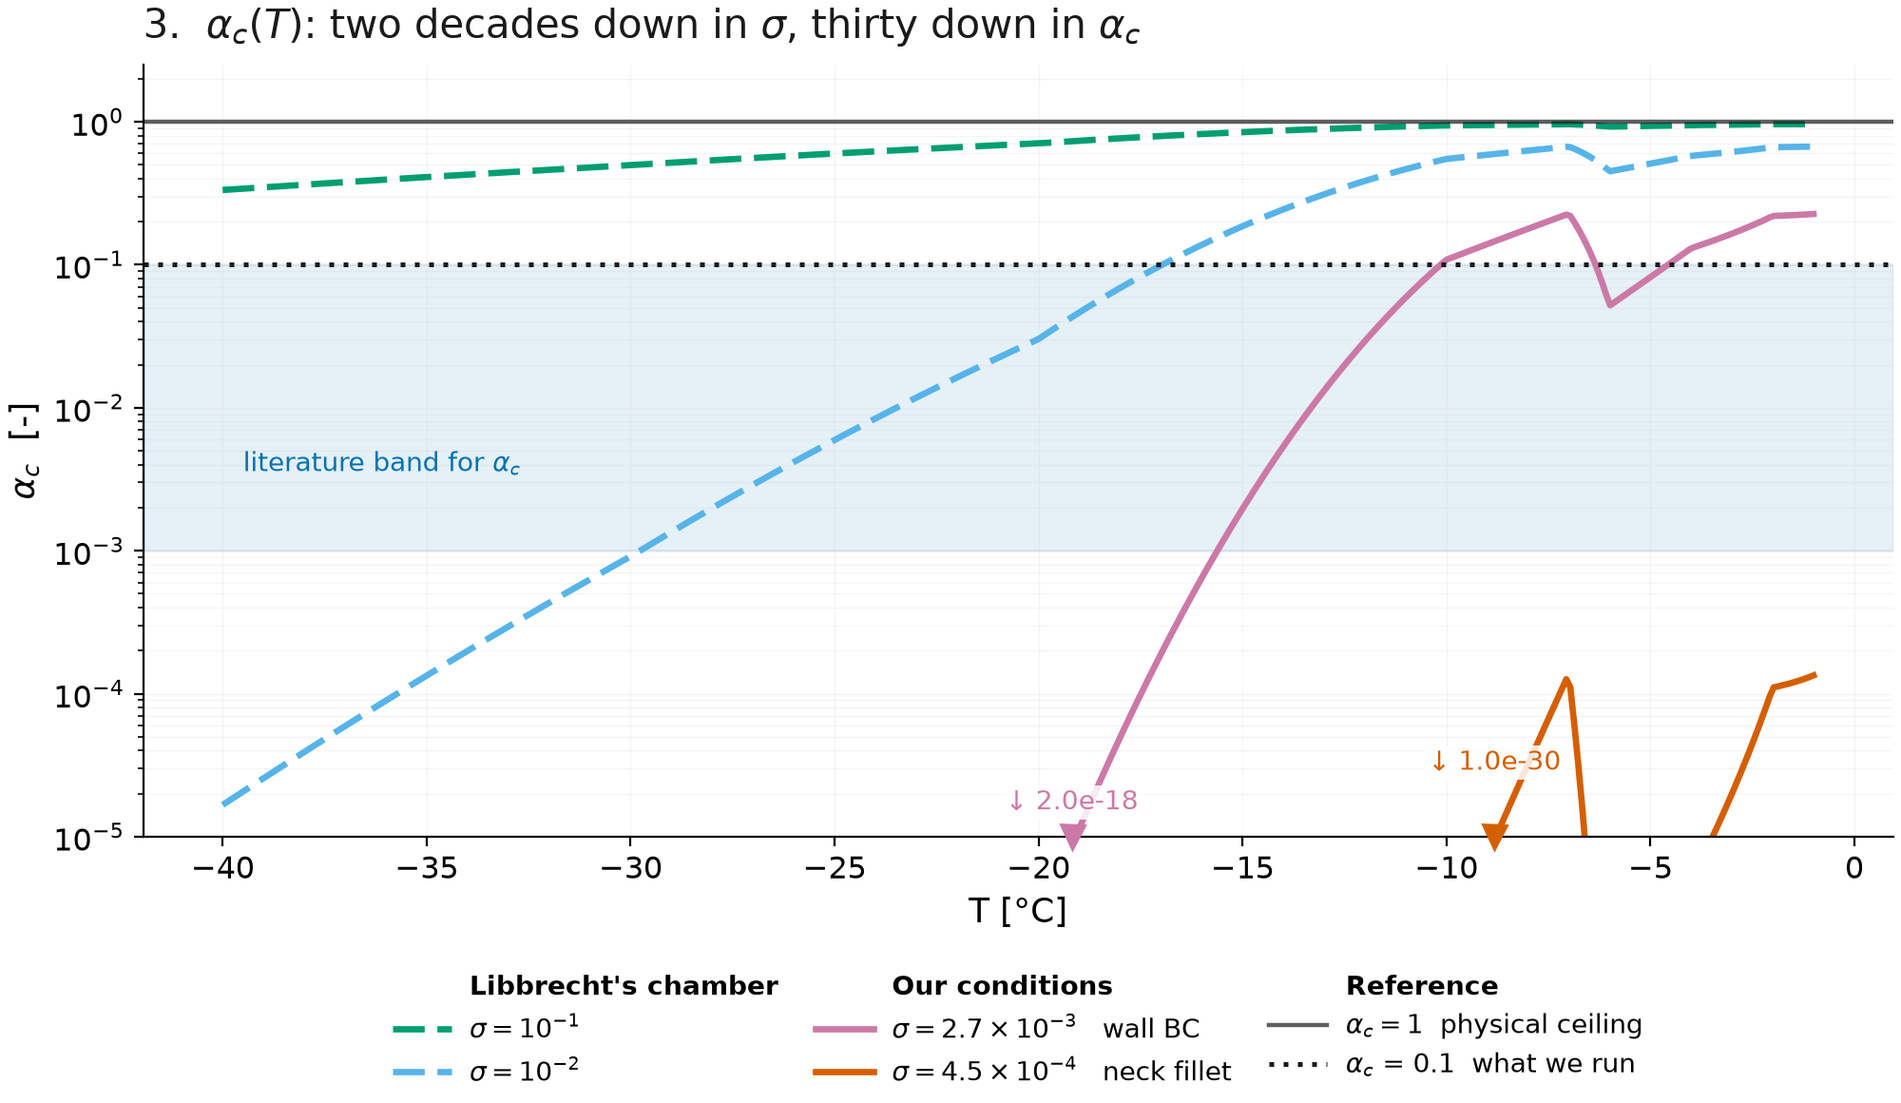
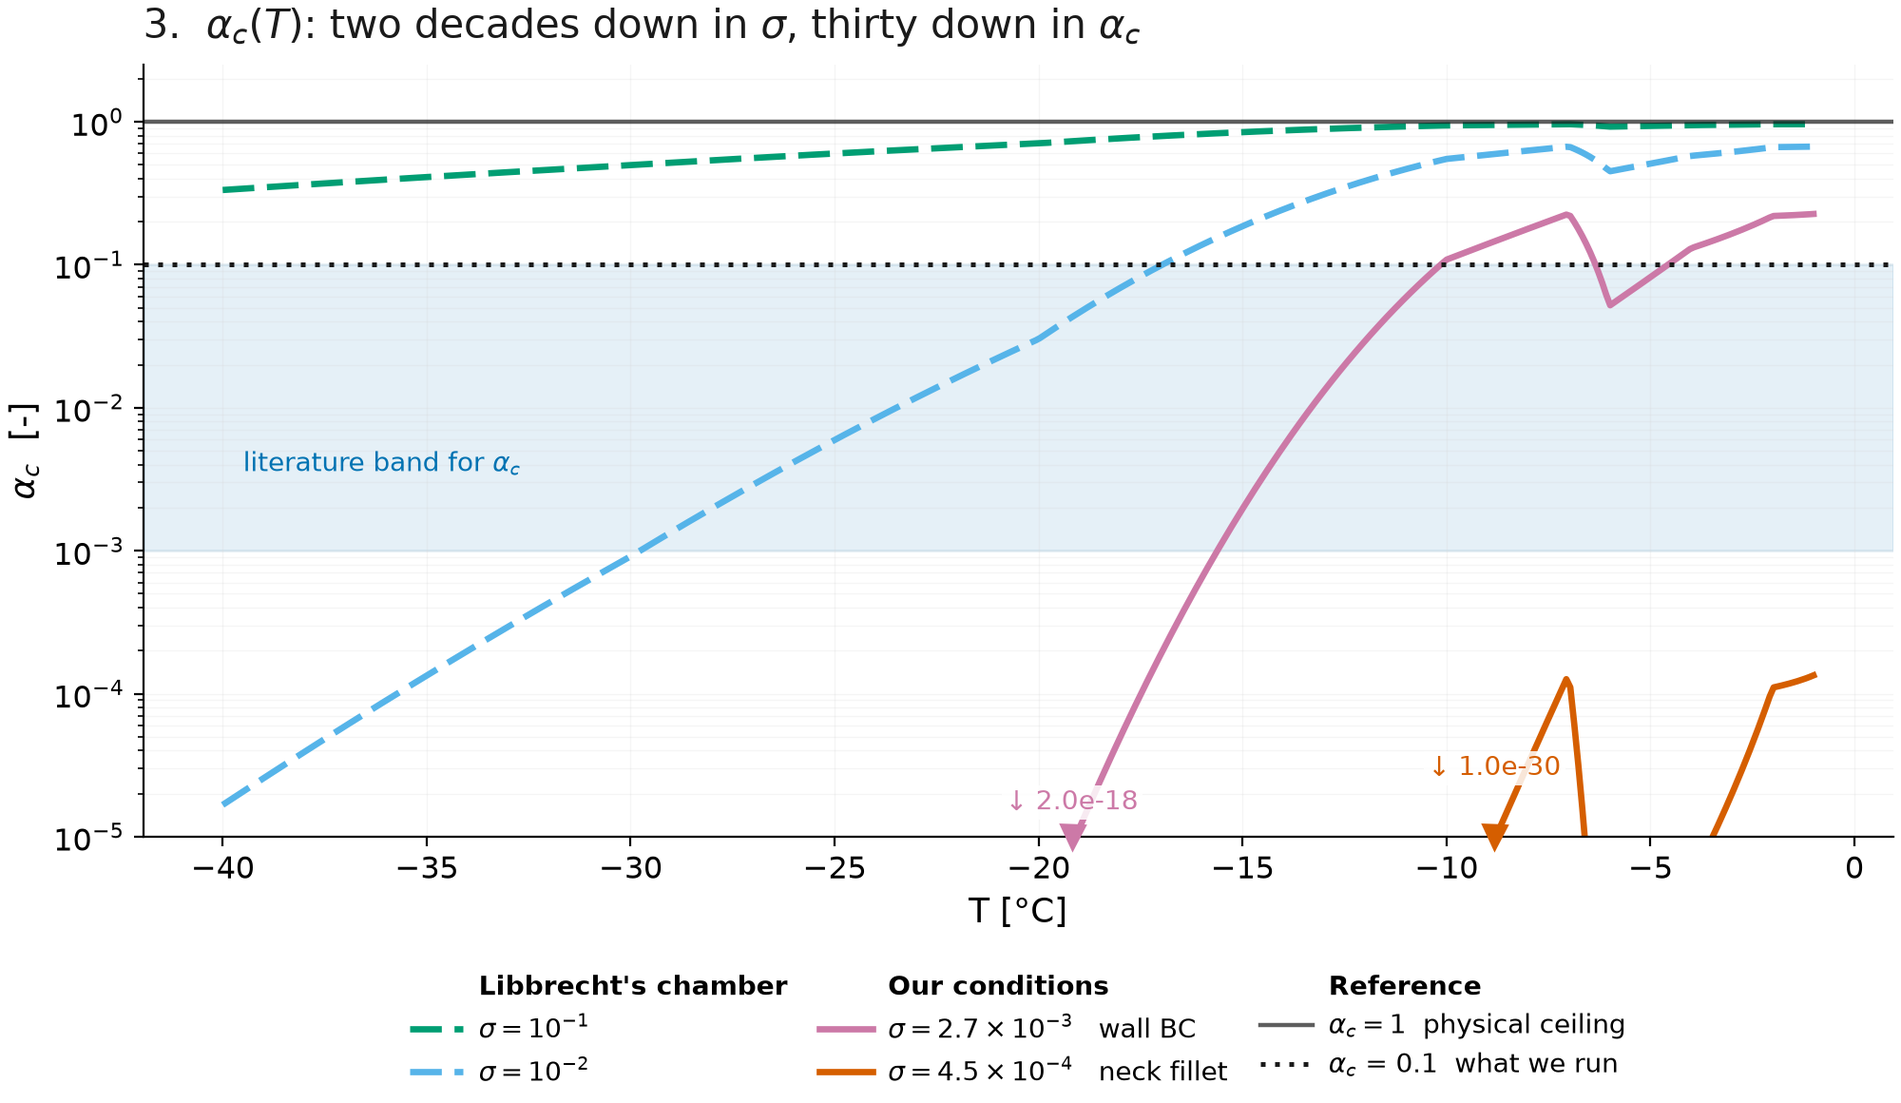
Add the master figure: all six panels in 10 x 6.6 in
Six panels inside 10 in gives each a third of the width, which the
full-size panels do not survive -- not because the type must shrink (it
does not; the floor is still 10 pt) but because the titles, the prose
annotations and six copies of the same legend do not fit.

So the panels gained a compact mode: a flag the same panel functions
consult, rather than a second set of drawing code that could drift from
the standalone figures. It shortens the titles, shortens the y-labels on
panels 1 and 6, drops the annotations that only earn their place at full
size, and suppresses the per-panel legend.

The figure carries one legend instead. Panels 3-6 each draw a dotted
black "what we run" line under a different label; giving them one label
in compact mode collapses four entries into one, which is what makes a
single shared legend possible. _legend split into _entries and _grouped
so the figure-level legend reuses the per-panel layout code.

Claude-Session: https://claude.ai/code/session_01BVdmhQKeceS9YYRoWfp7Wf

diff --git a/projects/enceladus_DSM/preprocess/plot_libbrecht_constraints.py b/projects/enceladus_DSM/preprocess/plot_libbrecht_constraints.py
@@ -57,10 +57,12 @@ WHAT THE PLOTS ARE
   fig4_beta_sub_vs_T.png     beta_sub(T), with its defining equation
   fig5_eps_vs_T.png          eps(T) from comp_eps, shaded by binding bound
   fig6_Nx_vs_T.png           Nx(T), against what a machine can actually hold
+  fig0_master.png            all six, 3 x 2, one shared legend
 
-Every one is 10.00 x 5.80 in -- 10 wide is a hard ceiling, because these go
-on PowerPoint slides. There is deliberately no combined contact sheet: six
-of these panels cannot be laid out inside 10 in and stay legible.
+Every figure is 10 in wide -- a hard ceiling, because these go on PowerPoint
+slides -- and no type is below 10 pt. The master gets there by dropping each
+panel's prose annotations, shortening its title, and replacing six near
+identical legends with one at the foot of the figure.
   libbrecht_constraints.csv  the numbers behind them
 
 Usage:
@@ -137,6 +139,25 @@ FS_TITLE, FS_LABEL, FS_TICK, FS_LEG, FS_NOTE = 15, 13, 11.5, 10, 10
 SLIDE_W_IN = 10.0
 ASPECT = 0.58              # 10 x 5 of plot, plus the legend strip underneath
 
+# COMPACT MODE. The master grid puts six panels inside the same 10 in, so each
+# one gets a third of the width. Everything that only earns its place at full
+# size -- the long titles, the prose annotations, the per-panel legend -- is
+# dropped there, and the panels share one legend at the foot of the figure.
+# Type still never goes below 10 pt; that is the constraint, not the width.
+FS_C_TITLE, FS_C_LABEL, FS_C_TICK = 12, 10.5, 10
+_COMPACT = [False]
+
+
+def _compact():
+    return _COMPACT[0]
+
+
+def _lbl(full, short):
+    """Legend label: the panel's own wording, or the wording the shared legend
+    uses. Panels 3-6 all draw a dotted black 'what we run' line; giving them
+    one label in compact mode collapses four entries into one."""
+    return short if _compact() else full
+
 # -------------------------------------------------------------------------
 # The display window.
 #
@@ -182,26 +203,33 @@ def _mark_offscale(a, x, y, color, fmt="{:.1e}", row=0):
         while hi_i < len(out) - 1 and out[hi_i + 1]:
             hi_i += 1
         j = hi_i if hi_i < len(out) - 1 else (lo_i if lo_i > 0 else k)
-        pad = 8.0 + 15.0 * row
+        # One row lower in the master: the region names sit on the same edge
+        # and there is a third of the width to keep them apart in.
+        pad = 8.0 + 13.0 * (row + (1 if _compact() else 0))
         a.plot([x[j]], [edge], mk, ms=9, color=color, clip_on=False, zorder=7)
         a.annotate(f"{arrow} {fmt.format(extreme(y))}", (x[j], edge),
                    xytext=(0, -pad if va == "top" else pad),
-                   textcoords="offset points", fontsize=FS_NOTE, color=color,
+                   textcoords="offset points",
+                   fontsize=FS_C_TICK if _compact() else FS_NOTE, color=color,
                    ha="center", va=va, zorder=7,
                    bbox=dict(boxstyle="square,pad=0.15", fc="white", ec="none",
                              alpha=0.85))
 
 
-def _style(a, xlabel, ylabel, title, logy=True, title_size=FS_TITLE, pad=10):
-    a.set_xlabel(xlabel, fontsize=FS_LABEL)
-    a.set_ylabel(ylabel, fontsize=FS_LABEL)
+def _style(a, xlabel, ylabel, title, logy=True, title_size=FS_TITLE, pad=10,
+           short=None, short_y=None):
+    lab = FS_C_LABEL if _compact() else FS_LABEL
+    a.set_xlabel(xlabel, fontsize=lab)
+    a.set_ylabel(short_y if (_compact() and short_y) else ylabel, fontsize=lab)
+    if _compact():
+        title, title_size, pad = (short or title), FS_C_TITLE, 6
     if title:
         a.set_title(title, fontsize=title_size, color=INK, loc="left", pad=pad)
     if logy:
         a.set_yscale("log")
     a.grid(alpha=0.25, lw=0.5, color=GRID, which="both")
     a.spines[["top", "right"]].set_visible(False)
-    a.tick_params(labelsize=FS_TICK)
+    a.tick_params(labelsize=FS_C_TICK if _compact() else FS_TICK)
 
 
 def _blank():
@@ -209,19 +237,29 @@ def _blank():
     return Line2D([], [], linestyle="none", marker="none")
 
 
-def _legend(a, groups, y=-0.165):
-    """One legend under the axes, laid out as titled columns.
+def _entries(*axes):
+    """label -> handle, unioned across axes. Panels that draw the same line
+    with the same label collapse to one entry, which is what lets the master
+    grid carry a single legend for all six."""
+    have = {}
+    for a in axes:
+        for h, lbl in zip(*a.get_legend_handles_labels()):
+            have.setdefault(lbl, h)
+    return have
 
-    Eight entries in a flat strip is a lookup problem: the reader has to scan
-    the whole row to find the curve they want. matplotlib fills a multi-column
-    legend column-major, so padding every group to the same length puts each
-    group in its own column under its own bold heading -- and the headings are
-    what carry the provenance the short entry labels leave out.
 
-    `groups` is [(heading, [label, ...]), ...]; labels not actually plotted in
-    this panel are skipped, so one group list can serve several panels.
+def _grouped(target, have, groups, size, **kw):
+    """A legend laid out as titled columns.
+
+    A flat strip of entries is a lookup problem: the reader scans the whole row
+    to find one curve. matplotlib fills a multi-column legend column-major, so
+    padding every group to the same length puts each group in its own column
+    under its own bold heading -- and the headings carry the provenance the
+    short entry labels leave out.
+
+    `groups` is [(heading, [label, ...]), ...]; labels that were never plotted
+    are skipped, so one group list can serve several panels.
     """
-    have = {lbl: h for h, lbl in zip(*a.get_legend_handles_labels())}
     cols = [(t, [k for k in keys if k in have]) for t, keys in groups]
     cols = [c for c in cols if c[1]]
     rows = max(len(keys) for _t, keys in cols)
@@ -232,14 +270,23 @@ def _legend(a, groups, y=-0.165):
             handles.append(have[k]); labels.append(k)
         handles += [_blank()] * (rows - len(keys))
         labels += [""] * (rows - len(keys))
-    leg = a.legend(handles, labels, ncol=len(cols), loc="upper center",
-                   bbox_to_anchor=(0.5, y), fontsize=FS_LEG, frameon=False,
-                   handlelength=2.2, handletextpad=0.7, columnspacing=1.4,
-                   labelspacing=0.45, borderaxespad=0.0, alignment="left")
+    leg = target.legend(handles, labels, ncol=len(cols), fontsize=size,
+                        frameon=False, handlelength=2.0, handletextpad=0.6,
+                        columnspacing=1.2, labelspacing=0.45,
+                        borderaxespad=0.0, alignment="left", **kw)
     for t in leg.get_texts():
         if t.get_text() in headings:
             t.set_fontweight("bold")
     return leg
+
+
+def _legend(a, groups, y=-0.165):
+    """Per-panel legend under the axes. Suppressed in the master grid, which
+    carries one shared legend instead of six near-identical ones."""
+    if _compact():
+        return None
+    return _grouped(a, _entries(a), groups, FS_LEG, loc="upper center",
+                    bbox_to_anchor=(0.5, y))
 
 
 def _ls(kind):
@@ -262,6 +309,18 @@ def panel_sigma0(a, T, ctx):
     a.plot(ce._SIG0_T[:9], ce._SIG0_S[:9], "o", ms=7, color=C[0],
            markerfacecolor="white", markeredgewidth=1.8, zorder=5,
            label="table, 9 points in range")
+    if not _compact():
+        _panel1_notes(a)
+    a.set_xlim(-41, 0.5)
+    a.set_ylim(2.0e-3, 6.0e-1)
+    _style(a, "T [°C]", "$\\sigma_0$  (critical supersaturation) [-]",
+           "1.  Libbrecht's data: $\\sigma_0(T)$",
+           short="1.  Libbrecht's $\\sigma_0(T)$", short_y="$\\sigma_0$  [-]")
+    _legend(a, [("Libbrecht (2017)", ["$\\sigma_0(T)$ as coded",
+                                      "table, 9 points in range"])])
+
+
+def _panel1_notes(a):
     a.annotate("non-monotonic kink at $-6/-7$ °C\n(a digitisation artifact,\n"
                "not physics)", (-6.6, 6.6e-3), xytext=(-14.5, 3.0e-3),
                fontsize=FS_NOTE, color=C[1], ha="center", va="center",
@@ -272,12 +331,6 @@ def panel_sigma0(a, T, ctx):
            "$\\alpha_c = \\exp(-\\sigma_0/\\sigma)$, so that factor\n"
            "lands in the EXPONENT.",
            fontsize=FS_NOTE, color=INK, ha="left", va="top")
-    a.set_xlim(-41, 0.5)
-    a.set_ylim(2.0e-3, 6.0e-1)
-    _style(a, "T [°C]", "$\\sigma_0$  (critical supersaturation) [-]",
-           "1.  Libbrecht's data: $\\sigma_0(T)$")
-    _legend(a, [("Libbrecht (2017)", ["$\\sigma_0(T)$ as coded",
-                                      "table, 9 points in range"])])
 
 
 def panel_alpha_vs_sigma0(a, T, ctx):
@@ -294,17 +347,19 @@ def panel_alpha_vs_sigma0(a, T, ctx):
     a.axhline(ALPHA_CEIL, lw=1.6, color=INK, alpha=0.7,
               label="$\\alpha_c = 1$  physical ceiling")
     # Where the table's own sigma0 values sit, so x carries physical marks.
-    for Tm in (-2.0, -20.0, -40.0):
+    for Tm in ([] if _compact() else (-2.0, -20.0, -40.0)):
         s0m = ce.sigma0(Tm)
         a.axvline(s0m, lw=1.0, ls=(0, (1, 3)), color=MUTED, zorder=0)
         a.annotate(f"$T$ = {Tm:.0f} °C", (s0m, ALPHA_CEIL * 0.55), rotation=90,
                    fontsize=FS_NOTE, color=MUTED, ha="right", va="top", zorder=6,
                    bbox=dict(boxstyle="square,pad=0.15", fc="white", ec="none",
                              alpha=0.85))
-    a.annotate("literature band for $\\alpha_c$", (2.9e-4, 3.0e-2),
-               fontsize=FS_NOTE, color=C[0], va="center")
+    if not _compact():
+        a.annotate("literature band for $\\alpha_c$", (2.9e-4, 3.0e-2),
+                   fontsize=FS_NOTE, color=C[0], va="center")
     _style(a, "$\\sigma_0(T)$  [-]", "$\\alpha_c$  [-]",
-           "2.  $\\alpha_c = \\exp(-\\sigma_0/\\sigma)$ against $\\sigma_0$")
+           "2.  $\\alpha_c = \\exp(-\\sigma_0/\\sigma)$ against $\\sigma_0$",
+           short="2.  $\\alpha_c$ against $\\sigma_0$")
     _legend(a, [(GRP_LAB, SIG_LAB), (GRP_OURS, SIG_OURS),
                 (GRP_REF, ["$\\alpha_c = 1$  physical ceiling"])])
 
@@ -313,8 +368,9 @@ def panel_alpha_vs_T(a, T, ctx):
     """3. alpha_c(T) at each sigma -- the supersaturation gap, in T."""
     a.axhspan(ce.ALPHA_LIT_LO, ce.ALPHA_LIT_HI, color=C[0], alpha=0.10, zorder=0)
     a.set_ylim(*VIEW_ALPHA)
-    a.annotate("literature band for $\\alpha_c$", (-39.5, 4.0e-3),
-               fontsize=FS_NOTE, color=C[0], va="center")
+    if not _compact():
+        a.annotate("literature band for $\\alpha_c$", (-39.5, 4.0e-3),
+                   fontsize=FS_NOTE, color=C[0], va="center")
     for i, (sig, col, lbl, kind) in enumerate(SIGMA_CASES):
         y = np.maximum(ctx["alpha"][sig], ALPHA_FLOOR)
         a.plot(T, y, lw=2.4, color=col, ls=_ls(kind), label=lbl)
@@ -322,10 +378,11 @@ def panel_alpha_vs_T(a, T, ctx):
     a.axhline(ALPHA_CEIL, lw=1.6, color=INK, alpha=0.7,
               label="$\\alpha_c = 1$  physical ceiling")
     a.axhline(ctx["alpha_run"], lw=1.8, ls=(0, (1, 2)), color=INK,
-              label=f"$\\alpha_c$ = {ctx['alpha_run']:g}  what we run")
+              label=_lbl(f"$\\alpha_c$ = {ctx['alpha_run']:g}  what we run",
+                         "what we run"))
     _style(a, "T [°C]", "$\\alpha_c$  [-]",
            "3.  $\\alpha_c(T)$: two decades down in $\\sigma$, "
-           "thirty down in $\\alpha_c$")
+           "thirty down in $\\alpha_c$", short="3.  $\\alpha_c(T)$")
     _legend(a, [(GRP_LAB, SIG_LAB), (GRP_OURS, SIG_OURS),
                 (GRP_REF, ["$\\alpha_c = 1$  physical ceiling",
                            f"$\\alpha_c$ = {ctx['alpha_run']:g}  what we run"])])
@@ -341,14 +398,16 @@ def panel_beta_vs_T(a, T, ctx):
         a.plot(T, ctx["beta"][sig], lw=2.4, color=col, ls=_ls(kind), label=lbl)
         _mark_offscale(a, T, ctx["beta"][sig], col, row=i % 2)
     a.axhline(ctx["beta_run"], lw=1.8, ls=(0, (1, 2)), color=INK,
-              label=f"$\\beta_{{sub}}$ = {ctx['beta_run']:.1e} s/m  what we run")
+              label=_lbl(f"$\\beta_{{sub}}$ = {ctx['beta_run']:.1e} s/m  "
+                         f"what we run", "what we run"))
     _style(a, "T [°C]", "$\\beta_{sub}$  [s/m]",
            "4.  Attachment resistance $\\beta_{sub} \\propto 1/\\alpha_c$\n\n"
            r"$\beta_{sub}(T)=\dfrac{\beta_{HK}}{\rho_{vs}(T)/\rho_i}"
            r"=\dfrac{\rho_i}{\rho_{vs}(T)}\;\dfrac{1}{\alpha_c}\;"
            r"\sqrt{\dfrac{2\pi m}{k_B T}}\,,\qquad"
            r"\alpha_c=\exp\left[-\sigma_0(T)/\sigma\right]$",
-           title_size=13, pad=14)
+           title_size=13, pad=14,
+           short="4.  $\\beta_{sub}(T) \\propto 1/\\alpha_c$")
     _legend(a, [(GRP_LAB, SIG_LAB), (GRP_OURS, SIG_OURS),
                 (GRP_REF, ["M&F (2024) Table S1",
                            f"$\\beta_{{sub}}$ = {ctx['beta_run']:.1e} s/m  "
@@ -366,13 +425,16 @@ def panel_eps_vs_T(a, T, ctx):
                label=lbl)
         _mark_offscale(a, T, ctx["eps"][sig], col, row=i % 2)
     a.axhline(ctx["eps_usable"], lw=1.6, color=MUTED,
-              label=f"$N_x = 10^4$ ceiling, $\\epsilon$ = "
-                    f"{ctx['eps_usable']*1e9:.0f} nm")
+              label=_lbl(f"$N_x = 10^4$ ceiling, $\\epsilon$ = "
+                         f"{ctx['eps_usable']*1e9:.0f} nm",
+                         "$N_x = 10^4$  practical ceiling"))
     a.axhline(ctx["eps_run"], lw=1.8, ls=(0, (1, 2)), color=INK,
-              label=f"production run, $\\epsilon$ = {ctx['eps_run']*1e6:.3g} µm")
+              label=_lbl(f"production run, $\\epsilon$ = "
+                         f"{ctx['eps_run']*1e6:.3g} µm", "what we run"))
     _style(a, "T [°C]", "$\\epsilon$  [m]",
            "5.  Interface width from the comp_eps.py bounds "
-           "(shading follows $\\sigma = 2.7\\times10^{-3}$)")
+           "(shading follows $\\sigma = 2.7\\times10^{-3}$)",
+           short="5.  Interface width $\\epsilon(T)$")
     _legend(a, [(GRP_BIND, [BOUND_LABEL["B-KINETIC"], BOUND_LABEL["B-HEAT"]]),
                 (GRP_LAB, SIG_LAB), (GRP_OURS, SIG_OURS),
                 (GRP_REF, [f"$N_x = 10^4$ ceiling, $\\epsilon$ = "
@@ -393,9 +455,11 @@ def panel_Nx_vs_T(a, T, ctx):
     a.axhline(NX_USABLE, lw=1.6, color=MUTED,
               label="$N_x = 10^4$  practical ceiling")
     a.axhline(ctx["Nx_run"], lw=1.8, ls=(0, (1, 2)), color=INK,
-              label=f"production mesh, $N_x$ = {ctx['Nx_run']}")
+              label=_lbl(f"production mesh, $N_x$ = {ctx['Nx_run']}",
+                         "what we run"))
     _style(a, "T [°C]", "$N_x$  [nodes across $L_x$]",
-           "6.  The mesh Libbrecht's $\\alpha_c$ demands")
+           "6.  The mesh Libbrecht's $\\alpha_c$ demands",
+           short="6.  Mesh $N_x(T)$", short_y="$N_x$")
     _legend(a, [(GRP_BIND, [BOUND_LABEL["B-KINETIC"], BOUND_LABEL["B-HEAT"]]),
                 (GRP_LAB, SIG_LAB), (GRP_OURS, SIG_OURS),
                 (GRP_REF, ["$N_x = 10^4$  practical ceiling",
@@ -422,7 +486,8 @@ def _shade_binding(a, T, binding, y_frac=0.975):
         seen.add(name)
         # Name the region inside it, so the shading is never colour-alone.
         a.annotate(name, (0.5 * (T[i] + T[j]), y),
-                   xycoords=("data", "axes fraction"), fontsize=FS_NOTE + 1,
+                   xycoords=("data", "axes fraction"),
+                   fontsize=FS_C_TICK if _compact() else FS_NOTE + 1,
                    color=BOUND_COLOR.get(name, MUTED), ha="center", va=va,
                    fontweight="bold")
         i = j + 1
@@ -534,6 +599,32 @@ def main():
         fig, a = plt.subplots(figsize=figsize, layout="constrained")
         fn(a, T, ctx)
         _save(fig, name, args.dpi)
+
+    # --- the master: all six inside the same 10 in --------------------
+    # 3 x 2, so each panel keeps a landscape aspect close to the standalone's.
+    # Every panel drops its own legend and the figure carries one instead --
+    # six copies of the same four sigma curves is six times the reading for
+    # no extra information.
+    _COMPACT[0] = True
+    try:
+        fig, axes = plt.subplots(2, 3, figsize=(args.width, args.width * 0.66),
+                                 layout="constrained")
+        for ax, (_n, fn) in zip(axes.ravel(), PANELS):
+            fn(ax, T, ctx)
+        fig.suptitle("Libbrecht (2017) $\\sigma_0(T)$ as the source of "
+                     "$\\alpha_c$: the chain down to $\\epsilon$ and the mesh\n"
+                     f"{args.label}, measured $v_n$ = {args.vn:.3g} m/s",
+                     fontsize=FS_C_LABEL, color=INK)
+        _grouped(fig, _entries(*axes.ravel()),
+                 [(GRP_LAB, SIG_LAB), (GRP_OURS, SIG_OURS),
+                  (GRP_BIND, [BOUND_LABEL["B-KINETIC"], BOUND_LABEL["B-HEAT"]]),
+                  (GRP_REF, ["$\\alpha_c = 1$  physical ceiling",
+                             "$N_x = 10^4$  practical ceiling",
+                             "what we run", "M&F (2024) Table S1"])],
+                 FS_C_TICK, loc="outside lower center")
+        _save(fig, "fig0_master", args.dpi)
+    finally:
+        _COMPACT[0] = False
 
     # --- the numbers ------------------------------------------------------
     csv = args.out / "libbrecht_constraints.csv"

diff --git a/projects/enceladus_DSM/studies/libbrecht_kinetics/README.md b/projects/enceladus_DSM/studies/libbrecht_kinetics/README.md
@@ -34,6 +34,7 @@ from what the sizer does.
 | `fig4_beta_sub_vs_T.png` | $\beta_{sub}(T) \propto 1/\alpha_c$, with the defining equation on the axes |
 | `fig5_eps_vs_T.png` | $\epsilon(T)$ from the four K&P bounds, shaded by which bound binds |
 | `fig6_Nx_vs_T.png` | the $N_x(T)$ that follows, against the production mesh and the molecular limit |
+| `fig0_master.png` | all six at once, 3 × 2, one shared legend — 10 × 6.6 in |
 | `libbrecht_constraints.csv` | the numbers |
 
 **Axis windows.** Plotted full-range these quantities span sixty decades and
@@ -53,8 +54,13 @@ on PowerPoint slides — and `_save()` asserts it rather than trusting a figsize
 > image is simply 200 dpi at that size. `--dpi 96` produces a drop-in-sized
 > version instead, at some cost in sharpness on a projector.
 
-There is deliberately no combined figure: six of these panels cannot be laid
-out inside 10 in and stay legible, and a tall stacked strip is not a slide.
+`fig0_master.png` puts all six inside the same 10 in (10 × 6.6). It gets there
+by dropping each panel's prose annotations, shortening its title and y-label,
+and replacing six near-identical legends with one at the foot of the figure —
+the four σ curves are the same in every panel, so six copies of that legend is
+six times the reading for no extra information. Compact mode is a flag in the
+plotting script, not a second set of panel code, so the master and the
+standalone panels cannot disagree.
 
 Legends sit **under** the axes, not inside them (four curves sweeping the full
 diagonal leave no free corner), and they are split into titled columns:

diff --git a/projects/enceladus_DSM/.claude/ACTIVITY_LOG.md b/projects/enceladus_DSM/.claude/ACTIVITY_LOG.md
@@ -1,3 +1,25 @@
+## 2026-09-02 (final, 4) — Master figure, 10 x 6.6 in
+
+- Jackson asked for a master plot: all six panels, 10 in wide, 10 pt floor.
+  Built `fig0_master.png` (10.00 x 6.60 in @ 200 dpi), 3 x 2.
+- Getting six panels into a third of the width each needed a COMPACT mode
+  rather than a smaller font: `_COMPACT` toggles short titles, short y-labels
+  on panels 1 and 6, no prose annotations (the sigma0 kink callout, the
+  factor-27 block, the literature-band labels, panel 4's equation, panel 2's
+  T marks), and no per-panel legend. It is a flag inside the same panel
+  functions, so the master and the standalone panels cannot drift.
+- One shared legend at the foot instead of six. Panels 3-6 each draw a dotted
+  black "what we run" line with a different label; in compact mode they share
+  the label "what we run", which collapses four legend entries into one.
+  `_legend` split into `_entries` (label -> handle, unioned across axes) and
+  `_grouped` (the titled-column layout), so a figure-level legend reuses the
+  same code as the per-panel one.
+- Off-scale markers drop a row in compact mode: the binding-region names sit on
+  the same edge and there is a third of the width to keep them apart in.
+- Compact type: title 12, labels 10.5, ticks/legend/notes 10. Floor still 10.
+
+---
+
 ## 2026-09-02 (final, 3) — Dropped the contact sheet
 
 - Jackson, on the restacked overview: "This is 10 inches tall, I want 10 inches
